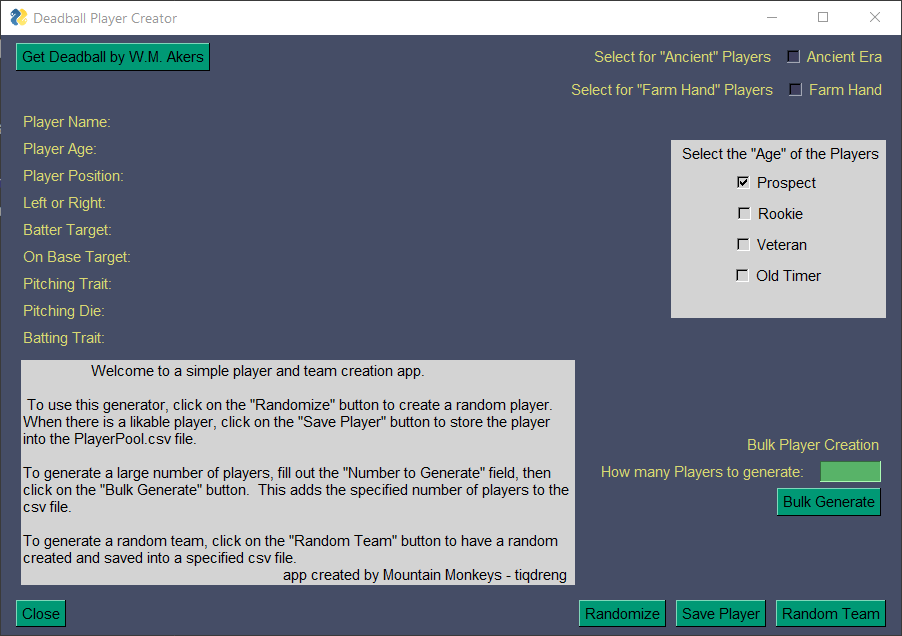
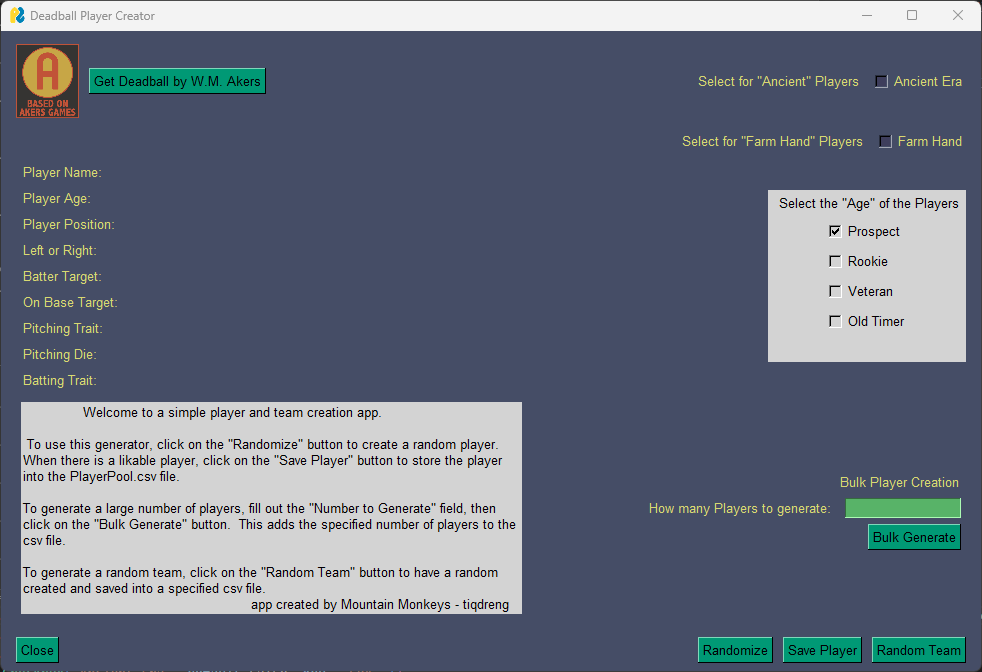
Updated the README with replacement MainProgram.png screengrab

Changed region(s): [[0.0, 0.0, 1.0, 1.0], [0.6829, 0.1792, 0.9933, 0.5377], [0.9933, 0.9858, 1.0, 1.0]]

diff --git a/DeadBall_Python/PlayerStats.py b/DeadBall_Python/PlayerStats.py
@@ -391,8 +391,8 @@ CreateButtons = [
 
 # This is where the actual layout is setup for the window components
 layout = [
-    [sg.Button('Get Deadball by W.M. Akers', key = 'LINK1'),sg.Push(),
-     sg.Image('./images/BasedOnAkersGames_sm.png', subsample=3),
+    [sg.Button(image_filename='./images/BasedOnAkersGames_sm.png', image_subsample=4, button_color=(sg.theme_background_color(),sg.theme_background_color()), border_width=0, key='LINK3'),
+     sg.Button('Get Deadball by W.M. Akers', key = 'LINK1'),sg.Push(),
      sg.Text("Select for \"Ancient\" Players"),
      sg.Checkbox('Ancient Era', default=False, key='-ERA-')],
     [sg.Push(),
@@ -408,7 +408,7 @@ layout = [
      sg.Button("Random Team")]
 ]
 # This is where the window is called and created
-window = sg.Window("Deadball Player Creator", layout, element_justification='l', size=(900, 600), resizable=True, return_keyboard_events=True)
+window = sg.Window("Deadball Player Creator", layout, element_justification='l', size=(980, 640), resizable=True, return_keyboard_events=True)
 
 # Until something is done, continue running the program
 while True:
@@ -420,6 +420,9 @@ while True:
 
     if event in ('LINK1', 'LINK2'):
         webbrowser.open("https://www.drivethrurpg.com/product/395133/Deadball-Baseball-With-Dice-Second-Edition")
+    
+    if event in ('LINK3', 'LINK4'):
+        webbrowser.open("https://akersgames.com/license")
 
     if event == "Save Player":
         f_0pen = open('PlayerPool.csv', 'a',encoding='utf-8')
